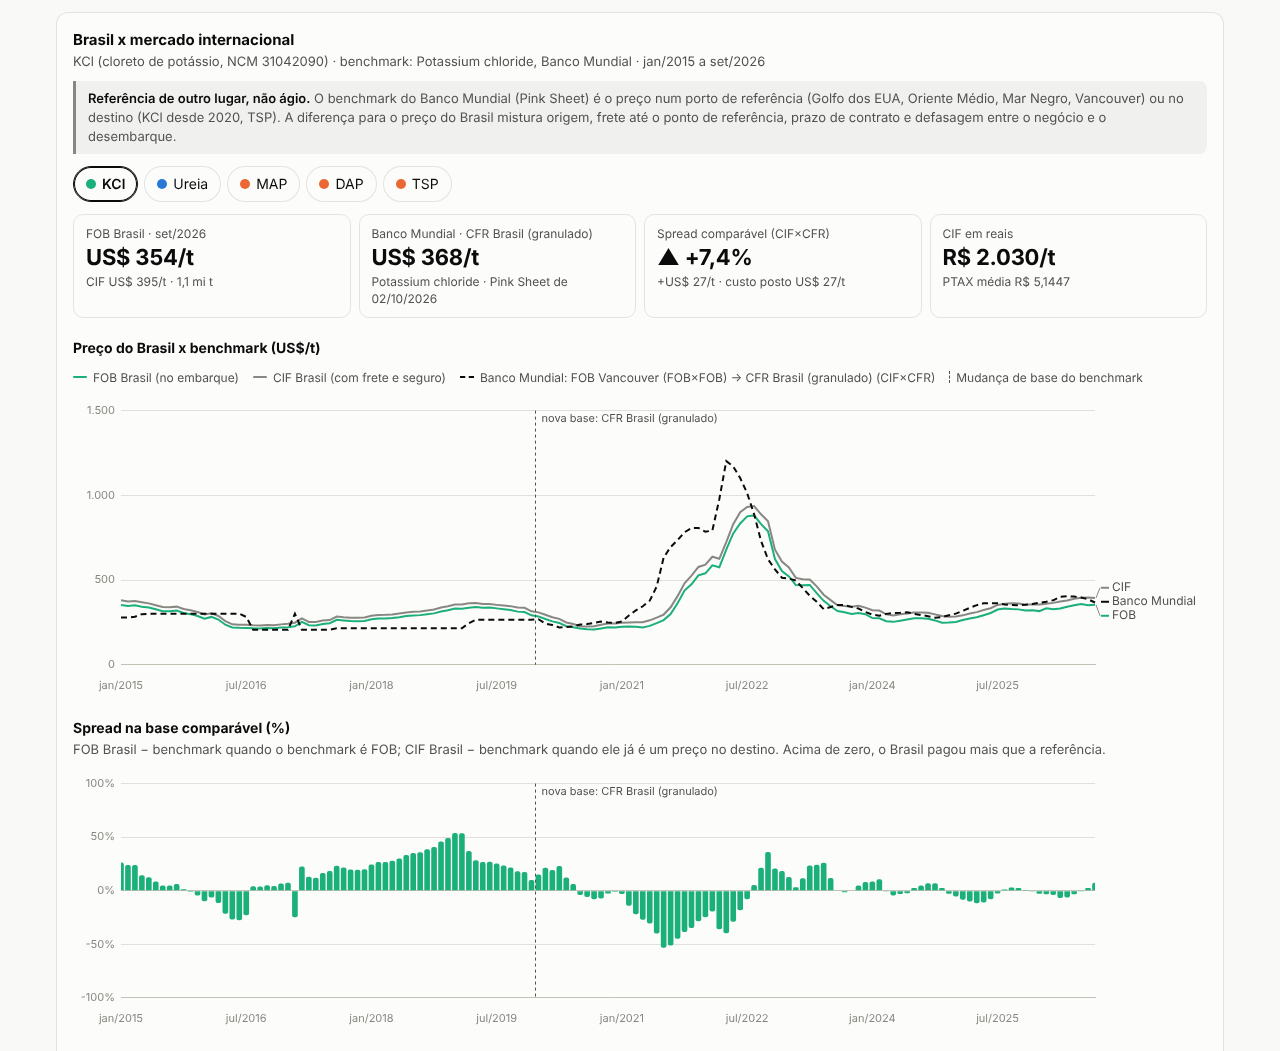
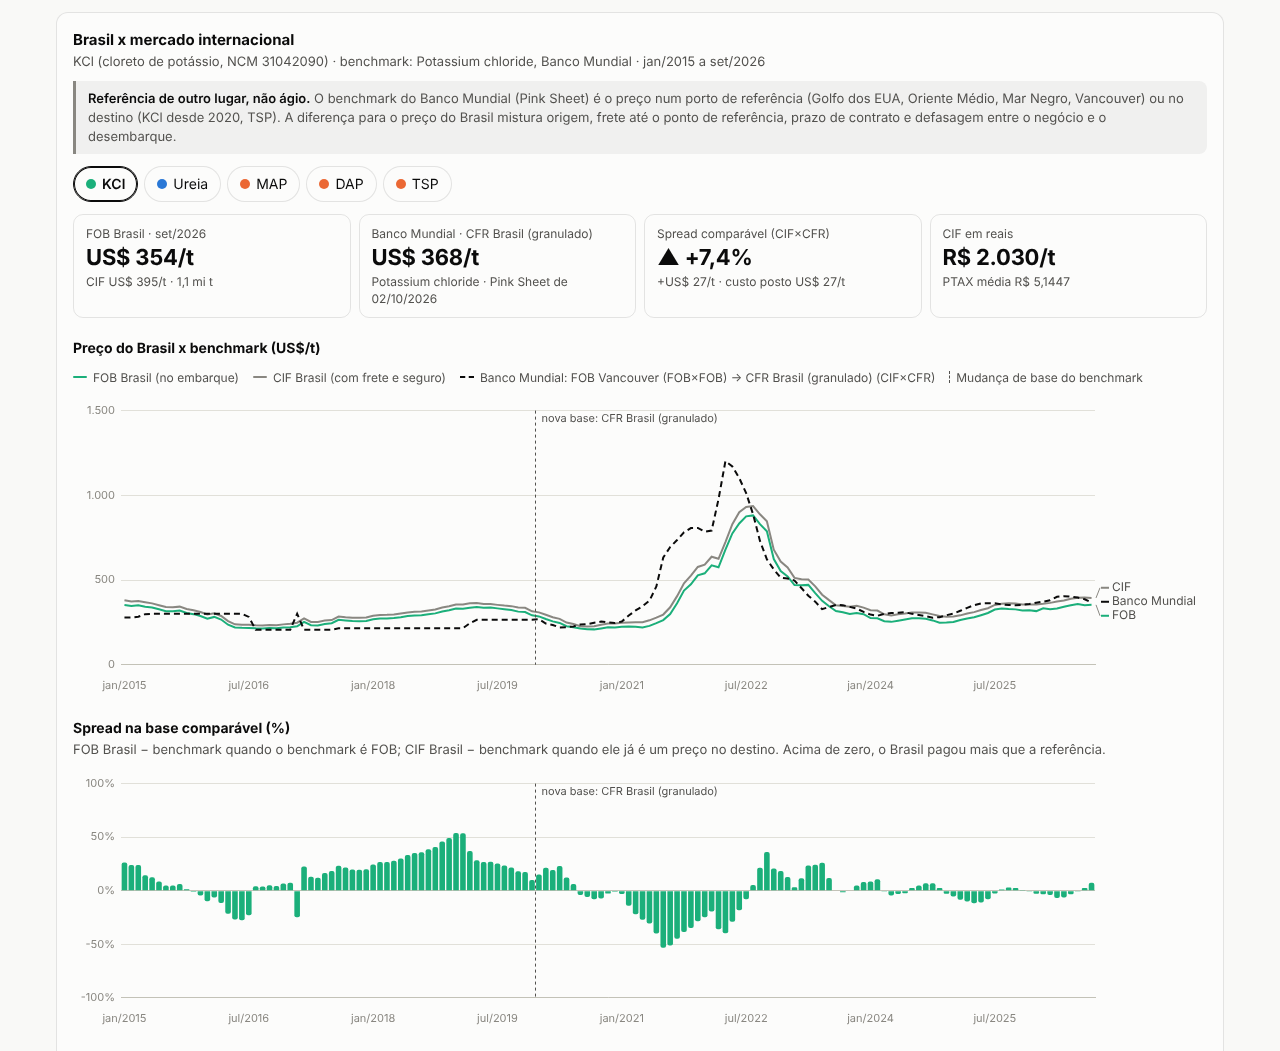
fix: seção do benchmark sem número de amostra pequena e sem gráfico vazio
- a dica do gráfico de spread num mês de amostra pequena diz só que ele
  fica fora da comparação, sem os valores em US$;
- período só com amostra pequena ou sem benchmark: um aviso no lugar dos
  três gráficos vazios; a tabela continua com os meses;
- as barras da primeira e da última posição aparecem inteiras (offset
  nos três gráficos, que seguem alinhados);
- série que termina antes do fim do período fica sem rótulo final, que
  aparecia na borda direita na altura de um mês antigo;
- a URL acompanha o produto mostrado quando o grupo muda;
- valor negativo em US$/t com o sinal de menos tipográfico.

diff --git a/dashboard/index.html b/dashboard/index.html
@@ -356,6 +356,8 @@ footer.rodape .fonte { color: var(--texto); font-weight: 600; font-size: 13px; }
         <p class="ressalva"><strong>Referência de outro lugar, não ágio.</strong> O benchmark do Banco Mundial (Pink Sheet) é o preço num porto de referência (Golfo dos EUA, Oriente Médio, Mar Negro, Vancouver) ou no destino (KCl desde 2020, TSP). A diferença para o preço do Brasil mistura origem, frete até o ponto de referência, prazo de contrato e defasagem entre o negócio e o desembarque.</p>
         <div class="chips" id="chips-bm" role="group" aria-label="Produto" style="margin-top: 12px"></div>
         <div class="kpi-linha" id="kpis-bm" style="margin-top: 12px"></div>
+        <p class="nota oculto" id="vazio-bm"></p>
+        <div id="graficos-bm">
         <h3 class="subtitulo">Preço do Brasil x benchmark (US$/t)</h3>
         <ul class="legenda" id="legenda-bm"></ul>
         <div class="grafico alto-300"><canvas id="grafico-bm" role="img"></canvas></div>
@@ -365,6 +367,7 @@ footer.rodape .fonte { color: var(--texto); font-weight: 600; font-size: 13px; }
         <h3 class="subtitulo">CIF em reais (R$/t, PTAX média do mês)</h3>
         <p class="nota" id="nota-brl"></p>
         <div class="grafico alto-260"><canvas id="grafico-brl" role="img"></canvas></div>
+        </div>
         <details class="tabela"><summary>Ver tabela</summary><div class="rolagem" id="tabela-bm"></div></details>
       </div>
     </section>
@@ -422,7 +425,7 @@ const MENOS = "−";
 const nulo = (v) => v === null || v === undefined || Number.isNaN(v);
 const toneladas = (t) => (nulo(t) ? "–" : `${fmtCompacto.format(t)} t`);
 const dolares = (v) => (nulo(v) ? "–" : `US$ ${fmtCompacto.format(v)}`);
-const porTonelada = (v) => (nulo(v) ? "–" : `US$ ${fmt0.format(v)}/t`);
+const porTonelada = (v) => (nulo(v) ? "–" : `${Math.round(v) < 0 ? MENOS : ""}US$ ${fmt0.format(Math.abs(v))}/t`);
 const pct = (v) => (nulo(v) ? "–" : `${fmt1.format(v)}%`);
 function variacao(v, sufixo = "%") {
   if (nulo(v) || !Number.isFinite(v)) return "–";
@@ -561,7 +564,9 @@ const pluginRotulosFinais = {
       if (meta.hidden || !ds.rotuloFinal) return;
       let j = ds.data.length - 1;
       while (j >= 0 && nulo(ds.data[j])) j--;
-      if (j < 0) return;
+      // Série que termina antes do fim do período (amostra pequena, mês sem benchmark): sem
+      // rótulo, que ficaria na borda direita na altura de um mês antigo. A legenda a identifica.
+      if (j < 0 || j < ds.data.length - 1) return;
       const ponto = meta.data[j];
       let y = ponto.y;
       if (opcoes.empilhado) {
@@ -1282,7 +1287,10 @@ function desenharBenchmark(indices) {
   secao.classList.toggle("oculto", !bm || !chaves.length);
   document.getElementById("rodape-bm").classList.toggle("oculto", !bm);
   if (!bm || !chaves.length) return;
-  if (!chaves.includes(estado.bm)) estado.bm = chaves[0];
+  if (!chaves.includes(estado.bm)) {
+    estado.bm = chaves[0];
+    gravarUrl();  // a URL acompanha o produto mostrado (ex.: bm=dap com o filtro do grupo K)
+  }
   const prod = bm.produtos[estado.bm];
   const corProd = corGrupo(prod.grupo);
   const p = periodos();
@@ -1305,6 +1313,13 @@ function desenharBenchmark(indices) {
   }));
 
   const nPequena = indices.filter(pequena).length;
+  // Período sem nenhum mês comparável (só amostra pequena ou sem benchmark): no lugar de três
+  // gráficos vazios com eixos sem sentido, um aviso; a tabela continua com os meses.
+  const comparaveis = indices.filter((i) => !pequena(i) && !nulo(valor("spread_pct", i))).length;
+  document.getElementById("graficos-bm").classList.toggle("oculto", comparaveis === 0);
+  const vazio = document.getElementById("vazio-bm");
+  vazio.classList.toggle("oculto", comparaveis > 0);
+  texto("vazio-bm", comparaveis ? "" : `Nenhum mês do período tem importação comparável de ${prod.nome}: todos tiveram menos de ${fmt0.format(bm.corte_amostra_t)} t ou ficaram sem benchmark. A tabela abaixo traz os meses.`);
   const quebras = bm.quebras.filter((q) => q.produto === estado.bm);
   const marcas = quebras.map((q) => ({ indice: indices.findIndex((i) => p[i] === q.periodo), rotulo: estreito() ? q.para.split(" (")[0] : `nova base: ${q.para}` })).filter((m) => m.indice > 0);
   const bases = [...new Set(indices.map((i) => `${baseDe(i).base} (${baseDe(i).comparacao})`))];
@@ -1333,7 +1348,7 @@ function desenharBenchmark(indices) {
   const margemBm = { padding: { right: estreito() ? 8 : 112 } };
   const eixosBm = (formatarY) => {
     const escalas = eixos({ formatarY, maxTicksX: estreito() ? 4 : 8 });
-    escalas.x.offset = false;
+    escalas.x.offset = true;  // as barras das pontas inteiras; nas linhas, o mesmo deslocamento
     escalas.y.afterFit = (escala) => { escala.width = 48; };
     return escalas;
   };
@@ -1399,6 +1414,9 @@ function desenharBenchmark(indices) {
           enabled: false,
           external: dicaExterna((pontos) => {
             const i = indices[pontos[0].dataIndex];
+            if (pequena(i)) {
+              return { titulo: pontos[0].label, linhas: [], extras: [`Amostra pequena (${toneladas(valor("t", i))}): fora da comparação`] };
+            }
             const usd = valor("spread_usd_t", i);
             return {
               titulo: pontos[0].label,
